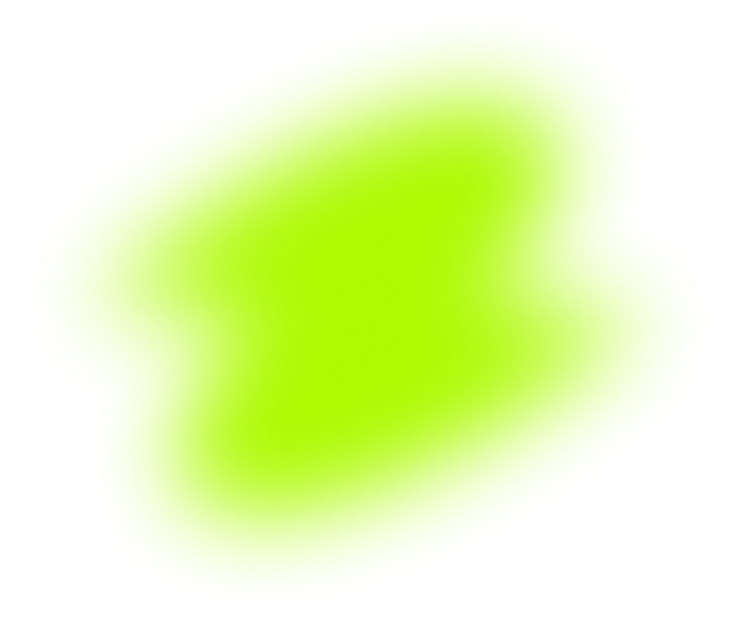
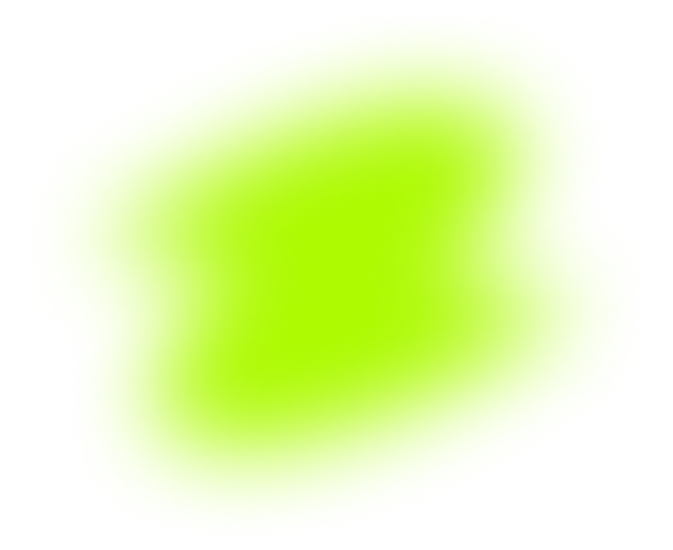
SUN-12 Поменял картинку, text и subtitle.

diff --git a/src/components/About/About.js b/src/components/About/About.js
@@ -1,6 +1,6 @@
 import React from 'react';
 import './About.scss';
-import PlanetImage from '../../assets/images/Planet.H03.png';
+import BigLogo from '../../assets/images/BigLogo.png';
 import Vector from '../../assets/images/Vector.png';
 
 const About = () => {
@@ -12,22 +12,18 @@ const About = () => {
             <img src={Vector} className={'about_con_left_imgUnderBlock_image'} alt="Eduspace"/>
           </div>
           <div className={'about_con_left_imgUpBlock'}>
-            <img src={PlanetImage} className={'about_con_left_imgUpBlock_image'} alt="Eduspace"/>
+            <img src={BigLogo} className={'about_con_left_imgUpBlock_image'} alt="Eduspace"/>
           </div>
         </div>
         <div className={'about_con_right'}>
           <h3 className={'about_con_right_title'}>О школе</h3>
           <p className={'about_con_right_sub-title'}>
-            Миссия Eduspace — дать возможность каждому быть
-            актуальным и востребованным специалистом прямо сейчас.
-            Вне зависимости от возраста и географии.
+            Мы современная платформа для развития
+            и профессионального роста
           </p>
           <p className={'about_con_right_text'}>
-            Значимость этих проблем настолько очевидна, что новая модель организационной
-            деятельности играет важную роль в формировании систем массового участия.
-            Идейные соображения высшего порядка, а также консультация с широким активом
-            способствует подготовки и реализации направлений прогрессивного развития.
-            Повседневная практика показывает
+            У нас вы можете увидеть сочетание новейших образовательных, информационных
+            технологий и экспертных руководителей курсов, работающих в своей сфере по сей день.
           </p>
         </div>
       </div>

diff --git a/src/components/About/About.scss b/src/components/About/About.scss
@@ -10,18 +10,15 @@
       width: 40.7%;
       &_imgUnderBlock {
         position: absolute;
-        left: 8%;
+        left: 9.5%;
         top: 0;
         @include xxl{
-          left: 2%;
+          left: 3%;
         }
         @include xfl{
-          transform: translateX(-17%);
-        }
-        @include xl {
-          width: 60%;
-          top: 50%;
-          left: -90px;
+          width: 50%;
+          top: 60%;
+          left: -60px;
           transform: translateY(-50%);
         }
         &_image {
@@ -30,17 +27,15 @@
       }
       &_imgUpBlock {
         position: absolute;
-        left: 12.7%;
-        top: 5%;
+        left: 12.4%;
+        top: 12%;
         @include xxl{
-          left: 8%;
+          left: 6%;
         }
         @include xfl{
           left: 0;
-        }
-        @include xl {
           width: 40%;
-          top: 50%;
+          top: 60%;
           transform: translateY(-50%);
         }
         &_image {
@@ -54,7 +49,7 @@
         position: relative;
         font-size: 36px;
         font-weight: 700;
-        line-height: 44px;
+        line-height: 45px;
         color: $lightGreenColor;
         padding-left: 80px;
         margin-top: 100px;
@@ -69,18 +64,18 @@
         }
       }
       &_sub-title {
-        font-size: 24px;
-        font-weight: 400;
-        line-height: 36px;
+        font-size: 32px;
+        font-weight: 700;
+        line-height: 40px;
         color: $totalWhiteColor;
-        margin-bottom: 5px;
+        margin-bottom: 24px;
       }
       &_text {
         font-size: 16px;
         font-weight: 500;
         line-height: 24px;
         color: $totalWhiteColor;
-        margin-bottom: 90px;
+        margin-bottom: 100px;
       }
     }
   }
